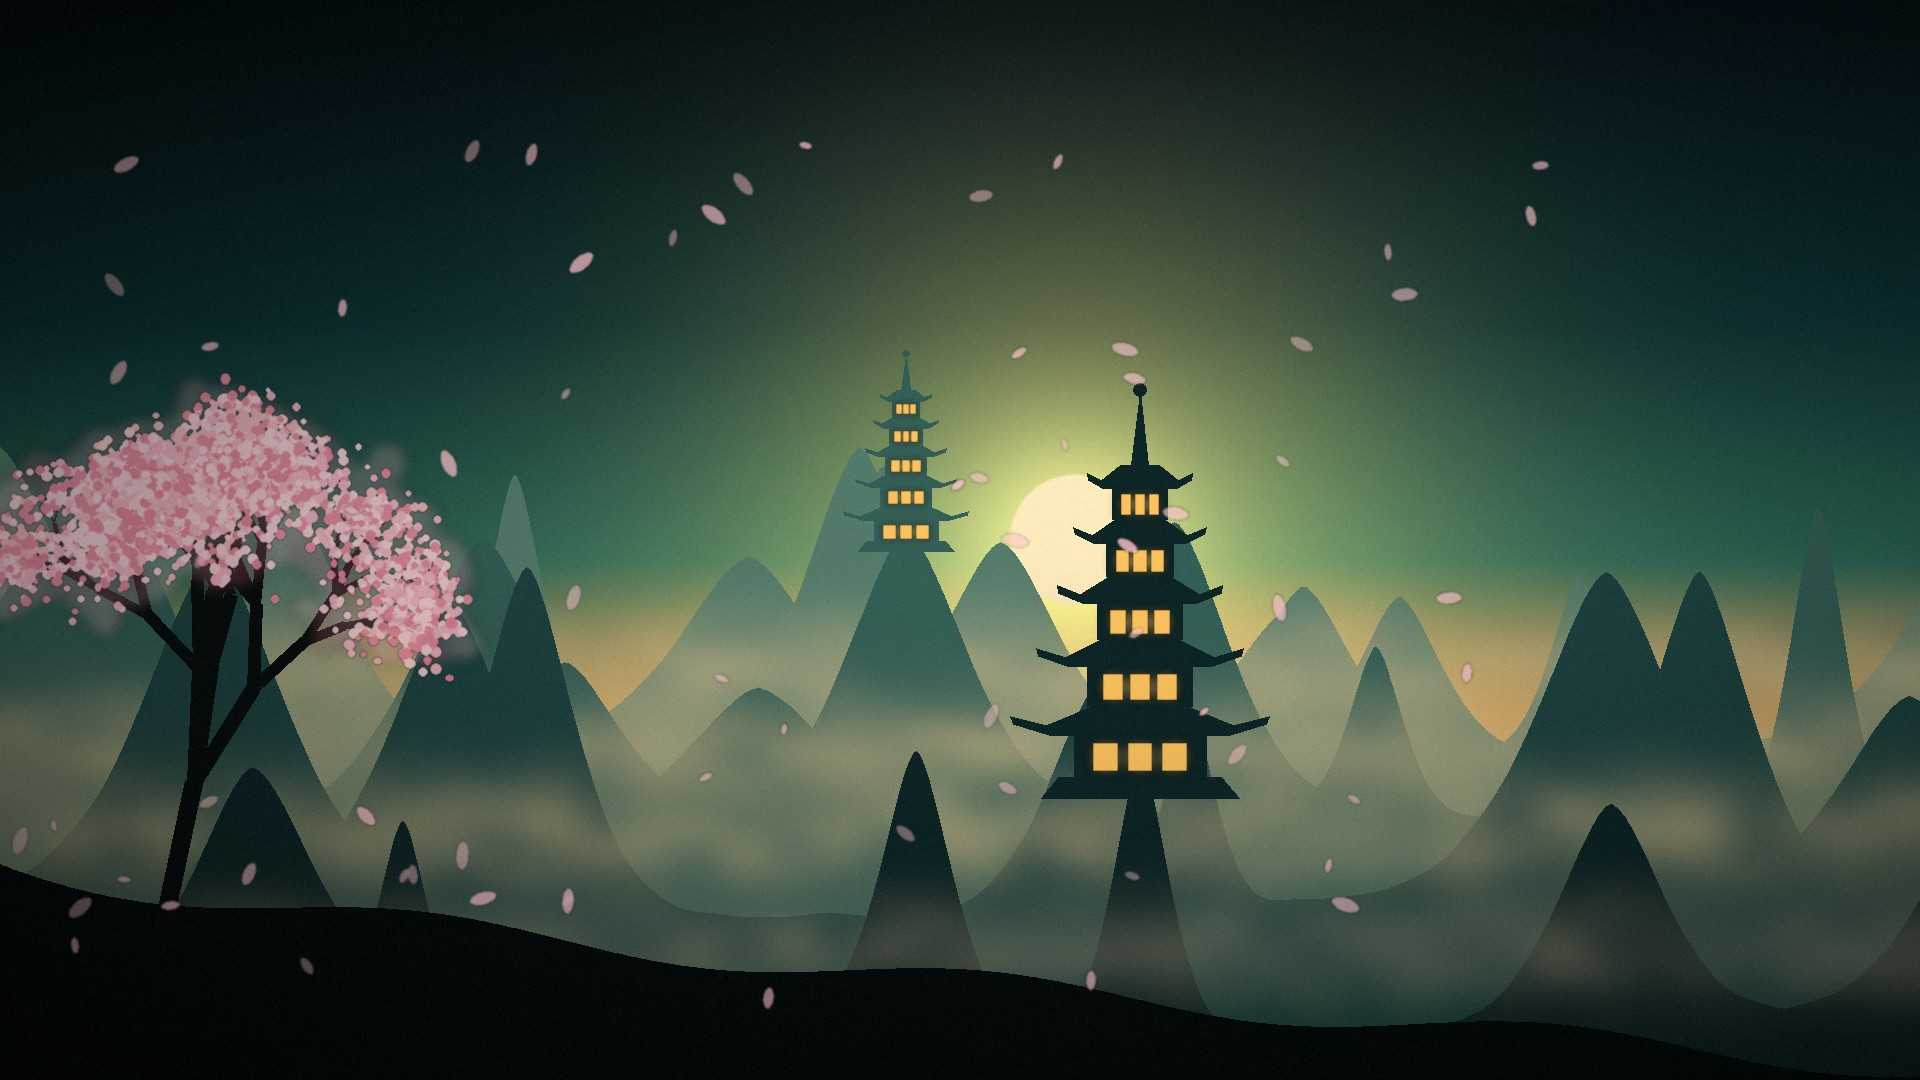
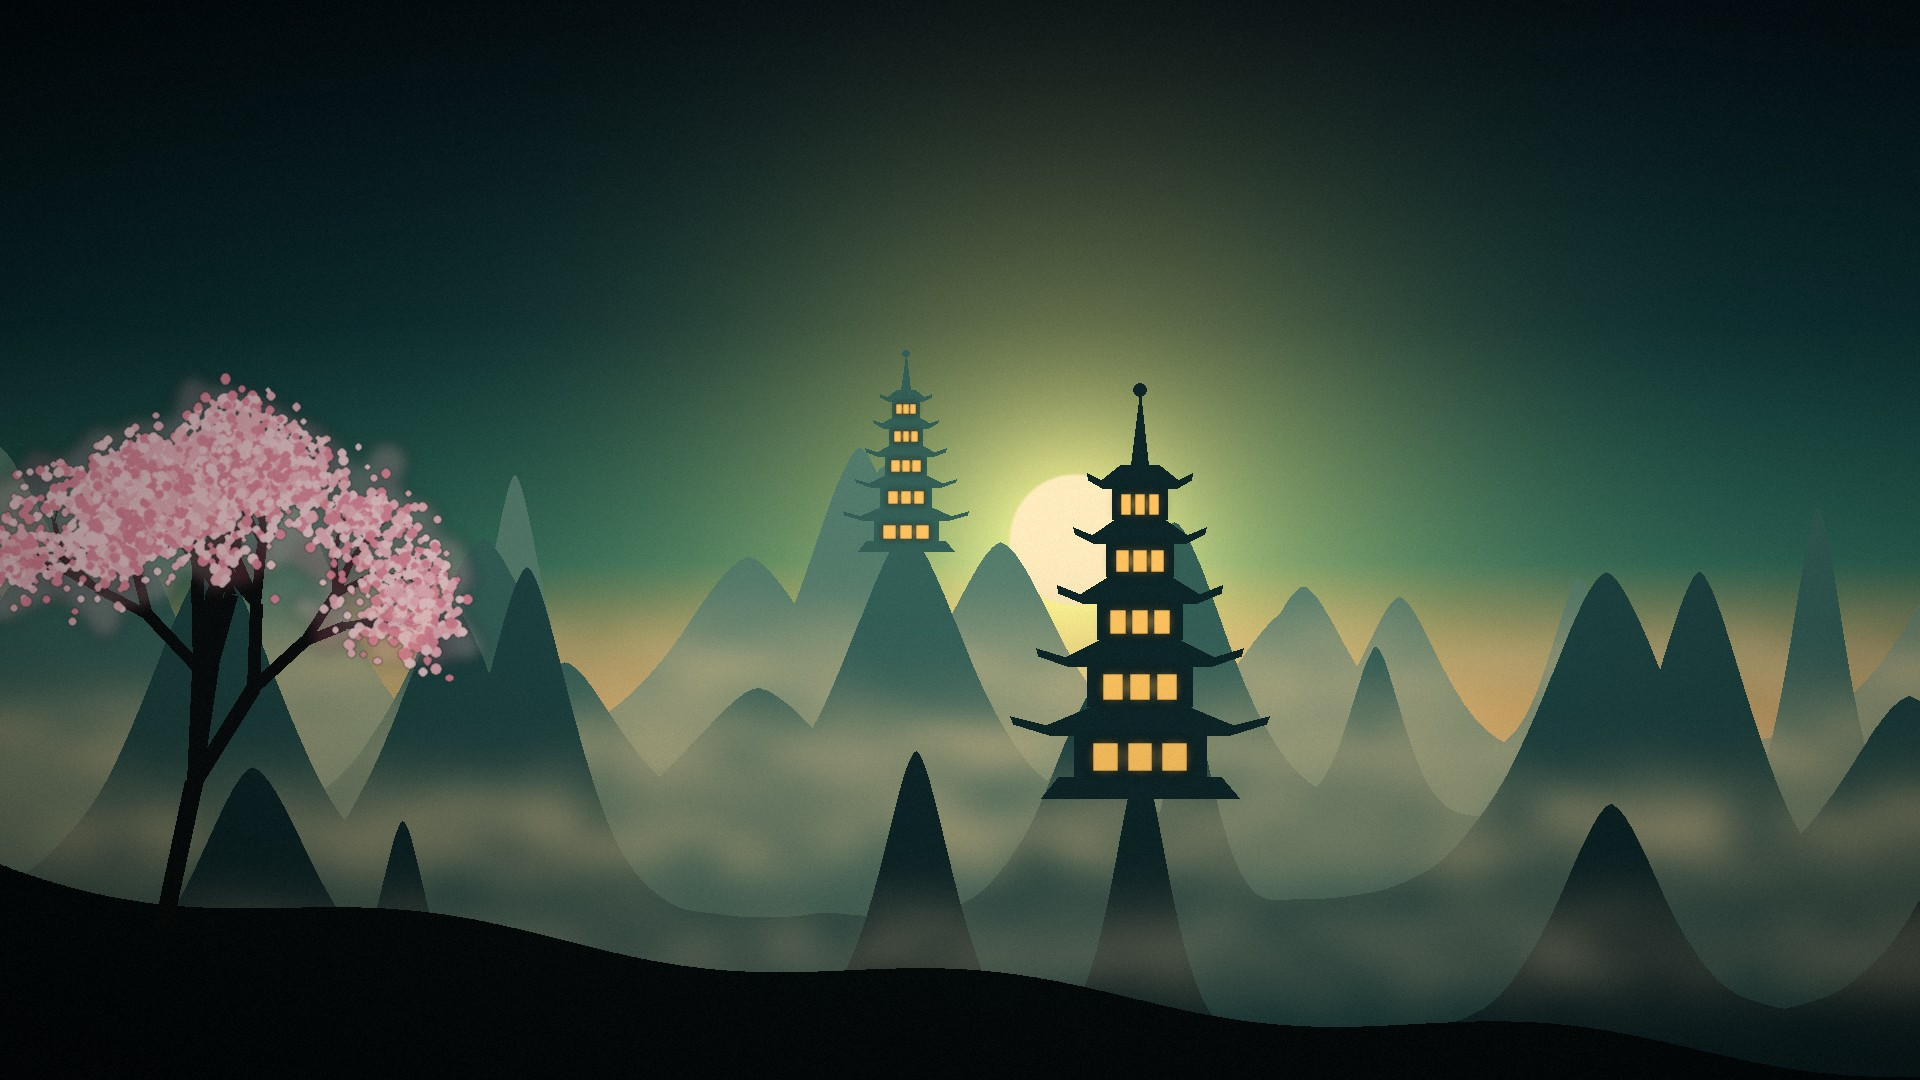
Animate the blossom petals (#2)
The petals were painted into the background. They are now drawn by a
PetalLayer over the artwork: they leave the tree's canopy, drift right in
a gusting wind, tumble, and respawn. Bumps the version to 1.1.0.

Claude-Session: https://claude.ai/code/session_01QKDwKyStbLBpWFUeRjDwAh

diff --git a/src/MoPLauncher/MainWindow.xaml b/src/MoPLauncher/MainWindow.xaml
@@ -1,6 +1,7 @@
 <Window x:Class="MoPLauncher.MainWindow"
         xmlns="http://schemas.microsoft.com/winfx/2006/xaml/presentation"
         xmlns:x="http://schemas.microsoft.com/winfx/2006/xaml"
+        xmlns:local="clr-namespace:MoPLauncher"
         Title="Mists of Pandaria Launcher"
         Width="1180" Height="720"
         MinWidth="1040" MinHeight="620"
@@ -21,6 +22,7 @@
         <!-- Artwork -->
         <Image Grid.RowSpan="2" Source="Assets/background.jpg" Stretch="UniformToFill"
                HorizontalAlignment="Center" VerticalAlignment="Center"/>
+        <local:PetalLayer Grid.RowSpan="2"/>
 
         <!-- Title -->
         <StackPanel Grid.Row="0" Margin="44,34,0,0" HorizontalAlignment="Left" VerticalAlignment="Top">

diff --git a/src/MoPLauncher/PetalLayer.cs b/src/MoPLauncher/PetalLayer.cs
@@ -1,0 +1,166 @@
+using System.Windows;
+using System.Windows.Media;
+
+namespace MoPLauncher;
+
+// Blossom petals that come off the tree in the background art and blow
+// across the window. Sits directly over the artwork and under the rest of
+// the UI, and follows the artwork's UniformToFill scaling so petals always
+// start at the tree's canopy.
+public sealed class PetalLayer : FrameworkElement
+{
+    // Size of background.jpg, and where the tree's canopy is in it.
+    private const double ArtWidth = 1920;
+    private const double ArtHeight = 1080;
+    private const double CanopyX = 235, CanopyY = 525, CanopyRadiusX = 210, CanopyRadiusY = 140;
+
+    private const int Count = 70;
+
+    private struct Petal
+    {
+        public double X, Y;            // position, in artwork pixels
+        public double SpeedX, SpeedY;  // drift, artwork pixels per second
+        public double Sway, SwayRate, Phase;
+        public double Angle, Spin;     // radians, radians per second
+        public double Flip, FlipRate;  // tumble, shown as the petal thinning
+        public double Size;
+        public double Opacity;
+        public double Age;
+        public int Color;
+    }
+
+    private static readonly Brush[] Colors = CreateBrushes(
+        Color.FromRgb(250, 196, 204), Color.FromRgb(255, 214, 218),
+        Color.FromRgb(244, 170, 180), Color.FromRgb(236, 140, 160));
+
+    private readonly Petal[] _petals = new Petal[Count];
+    private readonly Random _random = new(548);
+    private TimeSpan _lastFrame;
+    private double _time;
+
+    public PetalLayer()
+    {
+        IsHitTestVisible = false;
+        ClipToBounds = true;
+
+        // Start with petals already in the air rather than an empty sky.
+        for (var i = 0; i < _petals.Length; i++)
+        {
+            Spawn(ref _petals[i]);
+            var head = _random.NextDouble() * (ArtWidth / _petals[i].SpeedX);
+            _petals[i].X += _petals[i].SpeedX * head;
+            _petals[i].Y += _petals[i].SpeedY * head;
+            _petals[i].Age = head;
+            if (IsGone(_petals[i]))
+                Spawn(ref _petals[i]);
+        }
+
+        Loaded += (_, _) => CompositionTarget.Rendering += OnFrame;
+        Unloaded += (_, _) => CompositionTarget.Rendering -= OnFrame;
+    }
+
+    private static Brush[] CreateBrushes(params Color[] colors)
+    {
+        var brushes = new Brush[colors.Length];
+        for (var i = 0; i < colors.Length; i++)
+        {
+            brushes[i] = new SolidColorBrush(colors[i]);
+            brushes[i].Freeze();
+        }
+
+        return brushes;
+    }
+
+    private double Range(double min, double max) => min + _random.NextDouble() * (max - min);
+
+    private void Spawn(ref Petal petal)
+    {
+        // A random point inside the canopy.
+        var angle = Range(0, Math.PI * 2);
+        var distance = Math.Sqrt(_random.NextDouble());
+        petal.X = CanopyX + Math.Cos(angle) * distance * CanopyRadiusX;
+        petal.Y = CanopyY + Math.Sin(angle) * distance * CanopyRadiusY;
+
+        petal.SpeedX = Range(55, 150);
+        petal.SpeedY = Range(10, 42);
+        petal.Sway = Range(10, 32);
+        petal.SwayRate = Range(0.6, 1.6);
+        petal.Phase = Range(0, Math.PI * 2);
+        petal.Angle = Range(0, Math.PI * 2);
+        petal.Spin = Range(-1.8, 1.8);
+        petal.Flip = Range(0, Math.PI * 2);
+        petal.FlipRate = Range(1.2, 3.6);
+        petal.Size = Range(5, 12);
+        petal.Opacity = Range(0.5, 0.9);
+        petal.Age = 0;
+        petal.Color = _random.Next(Colors.Length);
+    }
+
+    private static bool IsGone(in Petal petal) => petal.X > ArtWidth + 40 || petal.Y > ArtHeight + 40;
+
+    private void OnFrame(object? sender, EventArgs e)
+    {
+        // Rendering can fire more than once per frame; only move on new ones.
+        var now = ((RenderingEventArgs)e).RenderingTime;
+        if (now == _lastFrame)
+            return;
+
+        var elapsed = _lastFrame == TimeSpan.Zero ? 0 : (now - _lastFrame).TotalSeconds;
+        _lastFrame = now;
+
+        // Stand still while hidden, and for people who turned animations off.
+        if (!IsVisible || !SystemParameters.ClientAreaAnimation)
+            return;
+
+        // After a pause (minimized, dragged) carry on rather than jump.
+        var dt = Math.Min(elapsed, 0.05);
+        _time += dt;
+
+        // The wind comes in gusts: two slow waves on top of a steady breeze.
+        var gust = 1 + 0.35 * Math.Sin(_time * 0.37) + 0.2 * Math.Sin(_time * 1.13 + 1.7);
+
+        for (var i = 0; i < _petals.Length; i++)
+        {
+            ref var petal = ref _petals[i];
+            petal.Age += dt;
+            petal.X += petal.SpeedX * gust * dt;
+            // Flutter up and down, and get lifted a little by stronger gusts.
+            petal.Y += (petal.SpeedY + petal.Sway * Math.Cos(petal.Age * petal.SwayRate + petal.Phase)
+                        - 22 * (gust - 1)) * dt;
+            petal.Angle += petal.Spin * gust * dt;
+            petal.Flip += petal.FlipRate * dt;
+
+            if (IsGone(petal))
+                Spawn(ref petal);
+        }
+
+        InvalidateVisual();
+    }
+
+    protected override void OnRender(DrawingContext drawingContext)
+    {
+        if (ActualWidth <= 0 || ActualHeight <= 0)
+            return;
+
+        // Same mapping as the artwork: UniformToFill, centered.
+        var scale = Math.Max(ActualWidth / ArtWidth, ActualHeight / ArtHeight);
+        var offsetX = (ActualWidth - ArtWidth * scale) / 2;
+        var offsetY = (ActualHeight - ArtHeight * scale) / 2;
+
+        foreach (ref readonly var petal in _petals.AsSpan())
+        {
+            // Fade in as it leaves the branch.
+            var opacity = petal.Opacity * Math.Min(1, petal.Age / 0.8);
+            var radiusX = petal.Size * scale;
+            var radiusY = petal.Size * 0.45 * scale * Math.Max(0.25, Math.Abs(Math.Cos(petal.Flip)));
+
+            drawingContext.PushOpacity(opacity);
+            drawingContext.PushTransform(new TranslateTransform(offsetX + petal.X * scale, offsetY + petal.Y * scale));
+            drawingContext.PushTransform(new RotateTransform(petal.Angle * 180 / Math.PI));
+            drawingContext.DrawEllipse(Colors[petal.Color], null, new Point(0, 0), radiusX, radiusY);
+            drawingContext.Pop();
+            drawingContext.Pop();
+            drawingContext.Pop();
+        }
+    }
+}

diff --git a/tools/make_art.py b/tools/make_art.py
@@ -154,18 +154,6 @@ def blossoms(img, tips):
     img.alpha_composite(crisp.filter(ImageFilter.GaussianBlur(0.7)))
 
 
-def petals(img, count):
-    layer = Image.new("RGBA", (W, H), (0, 0, 0, 0))
-    for _ in range(count):
-        x, y = rng.uniform(0, W * 0.8), rng.uniform(H * 0.12, H * 0.92)
-        s = rng.uniform(5, 13)
-        p = Image.new("RGBA", (int(s * 3), int(s * 3)), (0, 0, 0, 0))
-        ImageDraw.Draw(p).ellipse([s * 0.4, s, s * 2.6, s * 2.0], fill=(250, 196, 204, rng.randint(120, 220)))
-        p = p.rotate(rng.uniform(0, 180), resample=Image.BICUBIC)
-        layer.alpha_composite(p, (int(x), int(y)))
-    img.alpha_composite(layer.filter(ImageFilter.GaussianBlur(1.1)))
-
-
 def peak_near(line, fx, span=0.09):
     a, b = int(W * (fx - span)), int(W * (fx + span))
     return a + int(np.argmin(line[a:b]))
@@ -200,7 +188,7 @@ def background():
     tips = []
     tree(img, W * 0.085, H * 0.86, 150, math.radians(78), 7, d, tips)
     blossoms(img, tips)
-    petals(img, 70)
+    # Falling petals are not painted in: the launcher animates them (PetalLayer.cs).
     # vignette, heavier on the left and bottom where the UI text sits
     yy, xx = np.mgrid[0:H, 0:W].astype(np.float32)
     xx /= W

diff --git a/CHANGELOG.md b/CHANGELOG.md
@@ -3,6 +3,10 @@
 Each `## version` section becomes the notes of that release, and is what the
 launcher shows in its "What's new" panel.
 
+## 1.1.0
+
+- Blossom petals now drift off the tree and blow across the window in the wind.
+
 ## 1.0.0
 
 First release.
